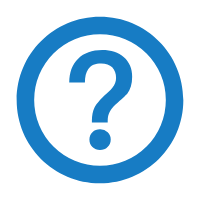
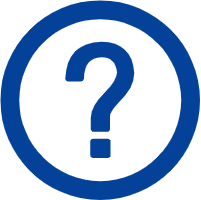
change img

diff --git a/src/components/content/navbar/NavBarItem.vue b/src/components/content/navbar/NavBarItem.vue
@@ -20,15 +20,15 @@
         <div class="clogo">
           <slot name="right">
             <a>
-              <img src="@/assets/img/help.png" />
+              <img src="@/assets/img/help_blur.png" />
             </a>
             <a href="http://cloud.vazyme.com:83/" target="blank">
-              <img src="@/assets/img/cloud.png" />
+              <img src="@/assets/img/cloud_blur.png" />
             </a>
             <a
               @click="alert_message('你被骗啦,这个工具还没有英文版的哦~')"
             >
-              <img src="@/assets/img/lan.png" />
+              <img src="@/assets/img/lan_blur.png" />
             </a>
           </slot>
         </div>
@@ -85,7 +85,14 @@ export default {
 
 .topbar .logo img {
   height: 46px;
+  /* filter: grayscale(100%);
+  opacity: 0.66;
+  transition: .3s ease all; */
 }
+/* .topbar .logo img:hover{
+  filter: grayscale(0%);
+  opacity: 1;
+} */
 /* title部分 */
 .topbar .title {
   margin: 0px 30px;
@@ -132,5 +139,11 @@ export default {
 .clogo img {
   width: 29px;
   height: 29px;
+  filter: grayscale(100%);
+    opacity: 0.66;
+}
+.clogo img:hover{
+  filter: none;
+  opacity: 1;
 }
 </style>
